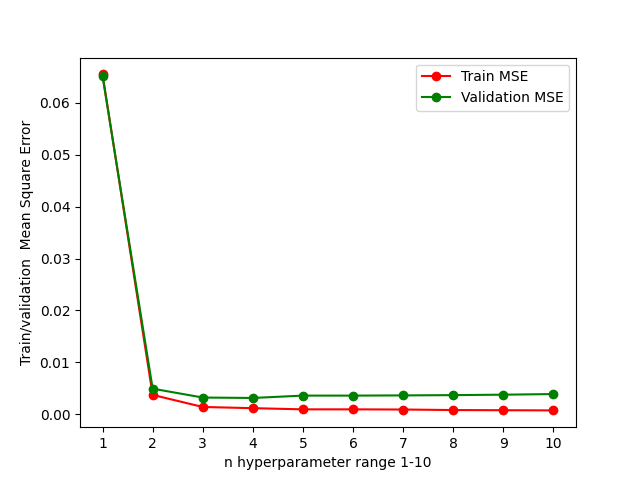
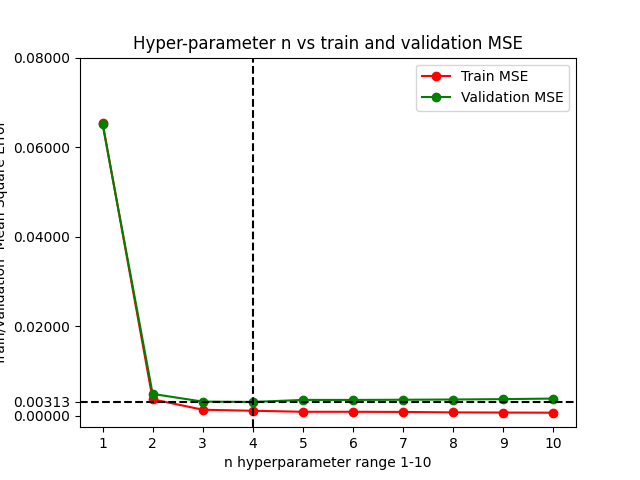
Plotting the graph improved in many ways found least MSE on validation

diff --git a/1.py b/1.py
@@ -75,9 +75,6 @@ Dataset_dir = "dataset/"
 
 x_train, y_train, x_val, y_val, x_test = load_dataset(Dataset_dir)
 
-# train_mse,val_mse = train_mse, val_mse = fit_and_evaluate(x_train, y_train, x_val, y_val,3) # sample value is 3 just to check
-# print(train_mse, val_mse)
-
 train_mse_array = []
 val_mse_array = []
 for i in range(1,11):
@@ -88,12 +85,15 @@ for i in range(1,11):
 # plotting the train and validation squarred errors
 plt.plot(range(1,11), train_mse_array, "o-", color="red", label="Train MSE")
 plt.plot(range(1,11), val_mse_array, "o-", color="green", label="Validation MSE")
+plt.axhline(y = min(val_mse_array), color = 'black', linestyle = 'dashed')
+plt.axvline(x = 1+val_mse_array.index(min(val_mse_array)), color = 'black', linestyle = 'dashed')
 
 plt.xticks(range(1,11))
+plt.yticks(list(np.linspace(0,0.08,5)) + [min(val_mse_array)])
 plt.legend()
 plt.xlabel('n hyperparameter range 1-10')
 plt.ylabel('Train/validation  Mean Square Error')
-
+plt.title('Hyper-parameter n vs train and validation MSE')
 
 plt.savefig('Train_and_validation_MSE_for_n=1_to_10.png')
 plt.show()

diff --git a/sample.py b/sample.py
@@ -13,9 +13,13 @@
 # print(sample)
 
 
-import matplotlib.pyplot as plt
-import numpy as np
+# import matplotlib.pyplot as plt
+# import numpy as np
 
-x = np.linspace(0,20,100)
-plt.plot(x, np.sin(x))
-plt.show()
+# x = np.linspace(0,20,100)
+# plt.plot(x, np.sin(x))
+# plt.show()
+
+
+L = [1,2,3,4,5,0]
+print(L.index(min(L)))

diff --git a/tempCodeRunnerFile.py b/tempCodeRunnerFile.py
@@ -1,0 +1,1 @@
+sample = list(np.linspace(0,0.08,5)) + [min(val_mse_array)]
